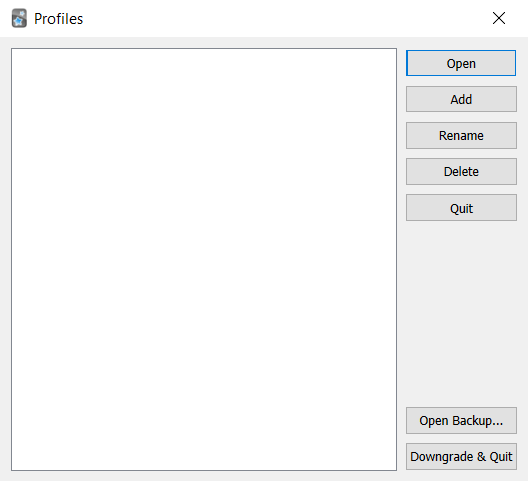
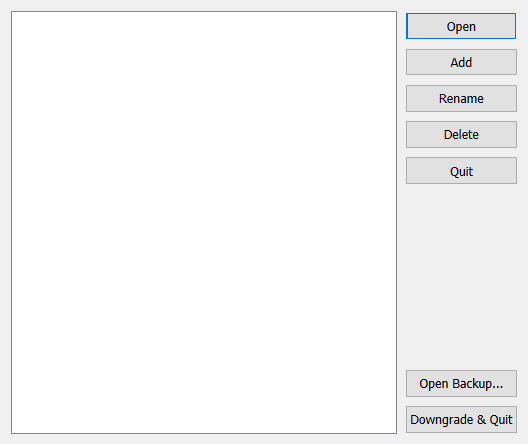
Rearrange popup dirs

diff --git a/naturalnets/environments/anki/pages/profile_page.py b/naturalnets/environments/anki/pages/profile_page.py
@@ -1,8 +1,8 @@
 import numpy as np
 import os
 from main_page import MainPage
-from at_least_one_profile_popup_page import AtLeastOneProfilePopupPage
-from delete_check_popup_page import DeleteCheckPopupPage
+from profile_page_popups.at_least_one_profile_popup_page import AtLeastOneProfilePopupPage
+from profile_page_popups.delete_check_popup_page import DeleteCheckPopupPage
 from naturalnets.environments.gui_app.bounding_box import BoundingBox
 from naturalnets.environments.gui_app.widgets.button import Button
 from naturalnets.environments.gui_app.page import Page
@@ -12,19 +12,24 @@ from naturalnets.environments.anki.profile import ProfileDatabase
 from naturalnets.environments.anki.deck import DeckDatabase
 
 class ProfilePage(Page,RewardElement):
-    
+    """Page to change the current profiles of the application.
+
+        State description:
+            state[0]: if this window is open
+            state[i]: i-th menu item of the profiles bounding-box (i > 0)
+    """
     STATE_LEN = 6
     IMG_PATH = os.path.join(IMAGES_PATH, "profile_page.png")
 
-    WINDOW_BB = BoundingBox(0, 0, 530, 482)
-    OPEN_BB = BoundingBox(406, 50, 110, 26)
-    ADD_BB = BoundingBox(406, 86, 110, 26)
-    RENAME_BB = BoundingBox(406, 122, 110, 26)
-    DELETE_BB = BoundingBox(406, 158, 110, 26)
-    QUIT_BB = BoundingBox(406, 194, 110, 26)
-    OPEN_BACKUP_BB = BoundingBox(410, 410, 110, 26)
-    DOWNGRADE_QUIT_BB = BoundingBox(410, 446, 110, 26)
-    PROFILES_BB = BoundingBox(11, 48, 386, 423)
+    WINDOW_BB = BoundingBox(0, 0, 528, 444)
+    OPEN_BB = BoundingBox(406, 13, 110, 26)
+    ADD_BB = BoundingBox(406, 49, 110, 26)
+    RENAME_BB = BoundingBox(406, 85, 110, 26)
+    DELETE_BB = BoundingBox(406, 121, 110, 26)
+    QUIT_BB = BoundingBox(406, 157, 110, 26)
+    OPEN_BACKUP_BB = BoundingBox(410, 373, 110, 26)
+    DOWNGRADE_QUIT_BB = BoundingBox(410, 409, 110, 26)
+    PROFILES_BB = BoundingBox(11, 11, 386, 423)
 
     #Profiles in the profiles_bb have the (heigth,width) (384,22)
 
@@ -48,24 +53,39 @@ class ProfilePage(Page,RewardElement):
         self.add_button = Button(self.ADD_BB,)
         self.open_button = Button(self.OPEN_BB,)
 
-        self.delete_check = DeleteCheckPopupPage()
+        self.delete_check_popup = DeleteCheckPopupPage()
         self.at_least_one_profile_popup = AtLeastOneProfilePopupPage()
         
         self.current_index = 0
-        self.profile = ProfileDatabase().profiles[0]
+        self.profile = ProfileDatabase().active_profile
+
+    @property
+    def reward_template(self):
+        return {
+            "window": ["open","close"],
+            "open_main_window": 0,
+            "add_profile_popup": ["open","close"],
+            "rename_profile_popup": ["open","close"],
+            "delete_profile_popup": ["open","close"],
+            "at_least_one_profile_popup": ["open","close"],
+            "open_backup": ["open","close"],
+            "reset_application": 0,
+            "selected_profile_index": [0,1,2,3,4]
+        }
 
     def change_current_deck_index(self,click_point:np.ndarray):
         # Items have size (384,22)
         # Box containing the items has size (386,423)
-        # Top left corner (11,48)
+        # Top left corner (11,11)
         current_bounding_box = self.calculate_current_bounding_box()
         if(current_bounding_box.is_point_inside(click_point)):
             click_index: int = click_point[1]/22
             self.current_index = click_index
             self.profile = ProfileDatabase().profiles[self.current_index]
+            self.register_selected_reward(["selected_profile_index", click_index])
 
     def calculate_current_bounding_box(self):
-       upper_left_point = (11,48)
+       upper_left_point = (11,11)
        length = 22 * DeckDatabase().decks_length()
        current_bounding_box = BoundingBox(upper_left_point[0], upper_left_point[1], 386, length)
        return current_bounding_box
@@ -75,9 +95,11 @@ class ProfilePage(Page,RewardElement):
     
     def open(self):
         self.get_state()[0] = 1
+        self.register_selected_reward(["window","open"])
     
     def close(self):
         self.get_state()[0] = 0
+        self.register_selected_reward(["window","close"])
     
     def is_open(self):
         return self.get_state()[0]
@@ -85,5 +107,12 @@ class ProfilePage(Page,RewardElement):
     def handle_delete(self):
         if(not(ProfileDatabase().is_removing_allowed())):
             self.at_least_one_profile_popup.open()
+            self.register_selected_reward(["at_least_one_profile_popup","open"])
         else:
-            self.delete_check.open()
+            self.delete_check_popup.open()
+            self.register_selected_reward(["delete_profile_popup","open"])
+
+    def open_main_page(self):
+        self.close()
+        self.main_page.open()
+        self.register_selected_reward(["open_main_window"])

diff --git a/naturalnets/environments/anki/pages/profile_page_popups/open_backup_popup_page.py b/naturalnets/environments/anki/pages/profile_page_popups/open_backup_popup_page.py
@@ -20,7 +20,7 @@ class OpenBackupPopup(Page, RewardElement):
     STATE_LEN = 1
     IMG_PATH = os.path.join(IMAGES_PATH,"open_backup_popup.png")
 
-    BOUNDING_BOX = BoundingBox(0, 0, 400, 146)
+    BOUNDING_BOX = BoundingBox(57, 165, 400, 146)
     YES_BUTTON_BB = BoundingBox(194, 106, 90, 26)
     NO_BUTTON_BB = BoundingBox(296, 106, 90, 26)
     EXIT_BUTTON_BB = BoundingBox(362, 0, 38, 28)
@@ -65,7 +65,6 @@ class OpenBackupPopup(Page, RewardElement):
         return self.get_state()[0]
     
     def reset_all(self):
-        
         ProfileDatabase().default_profiles()
         DeckDatabase().default_decks()
         ChooseDeckStudyPage().reset_index()

diff --git a/naturalnets/environments/anki/pages/profile_page_popups/add_profile_popup_page.py b/naturalnets/environments/anki/pages/profile_page_popups/add_profile_popup_page.py
@@ -83,7 +83,7 @@ class AddProfilePopupPage(Page,RewardElement):
     def add_profile(self,name: str):
         if (self.current_field_string is None):
             return
-        elif (not(ProfileDatabase().is_length_allowed())):
+        elif (not(ProfileDatabase().is_adding_allowed())):
             self.five_profiles_popup.open()
         elif (ProfileDatabase().is_included(name)):
             self.name_exists_popup.open()

diff --git a/naturalnets/environments/anki/profile.py b/naturalnets/environments/anki/profile.py
@@ -23,7 +23,7 @@ class ProfileDatabase():
         self.active_profile = self.profiles[0]
         self.current_index = 0
     
-    def is_length_allowed(self) -> bool :
+    def is_adding_allowed(self) -> bool :
         return self.profiles_length() < 5 
 
     def is_removing_allowed(self):
